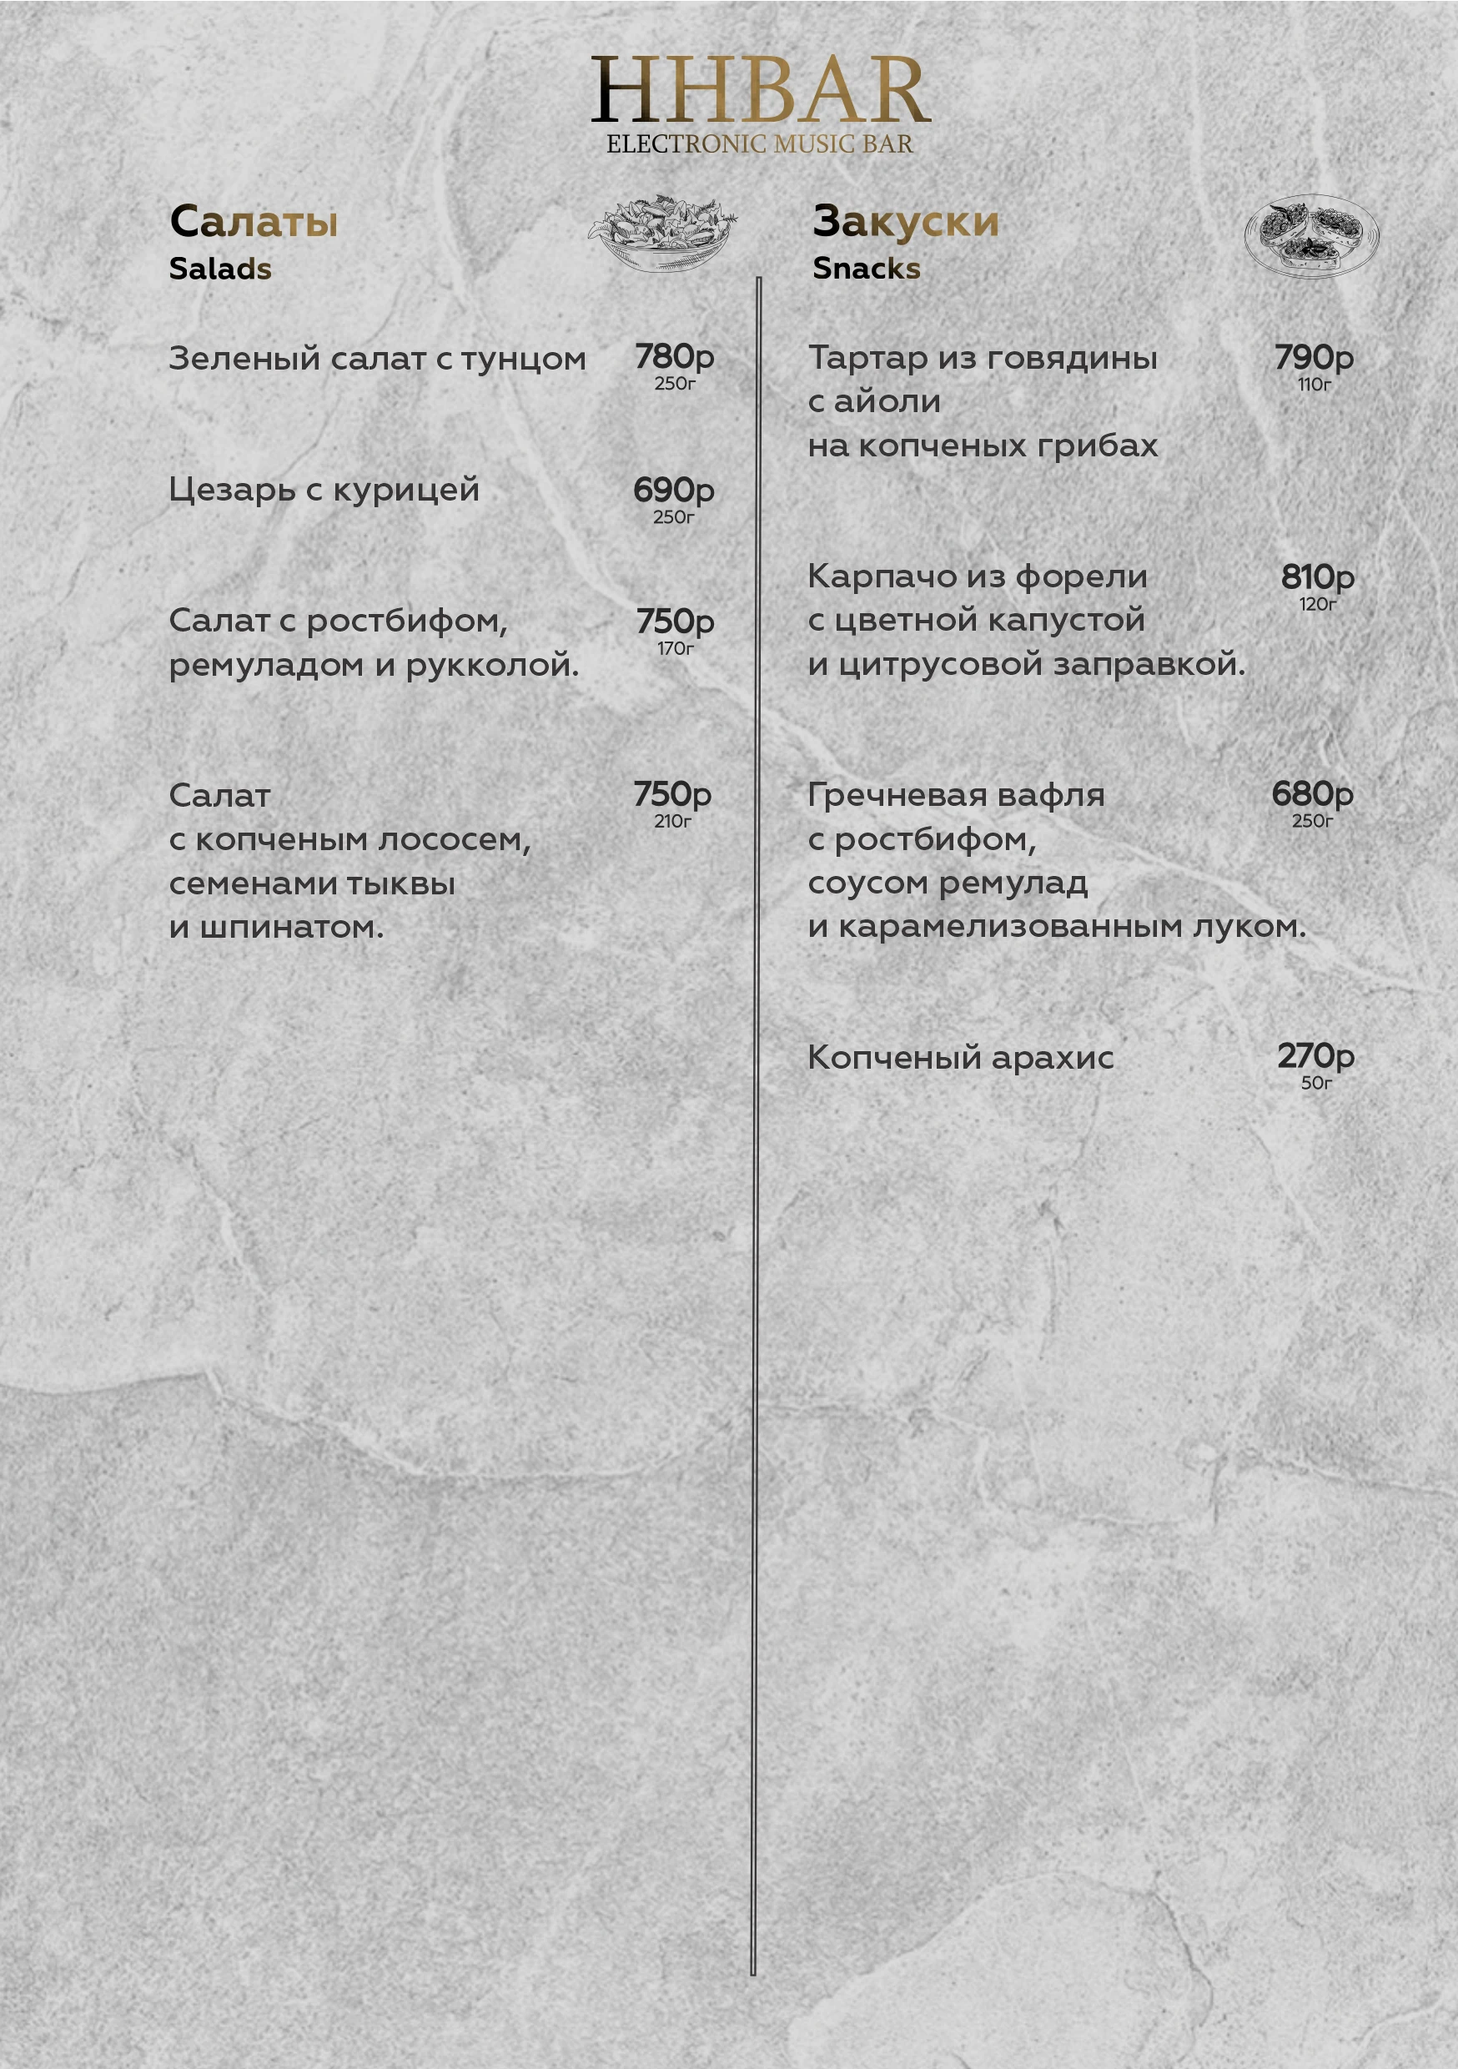
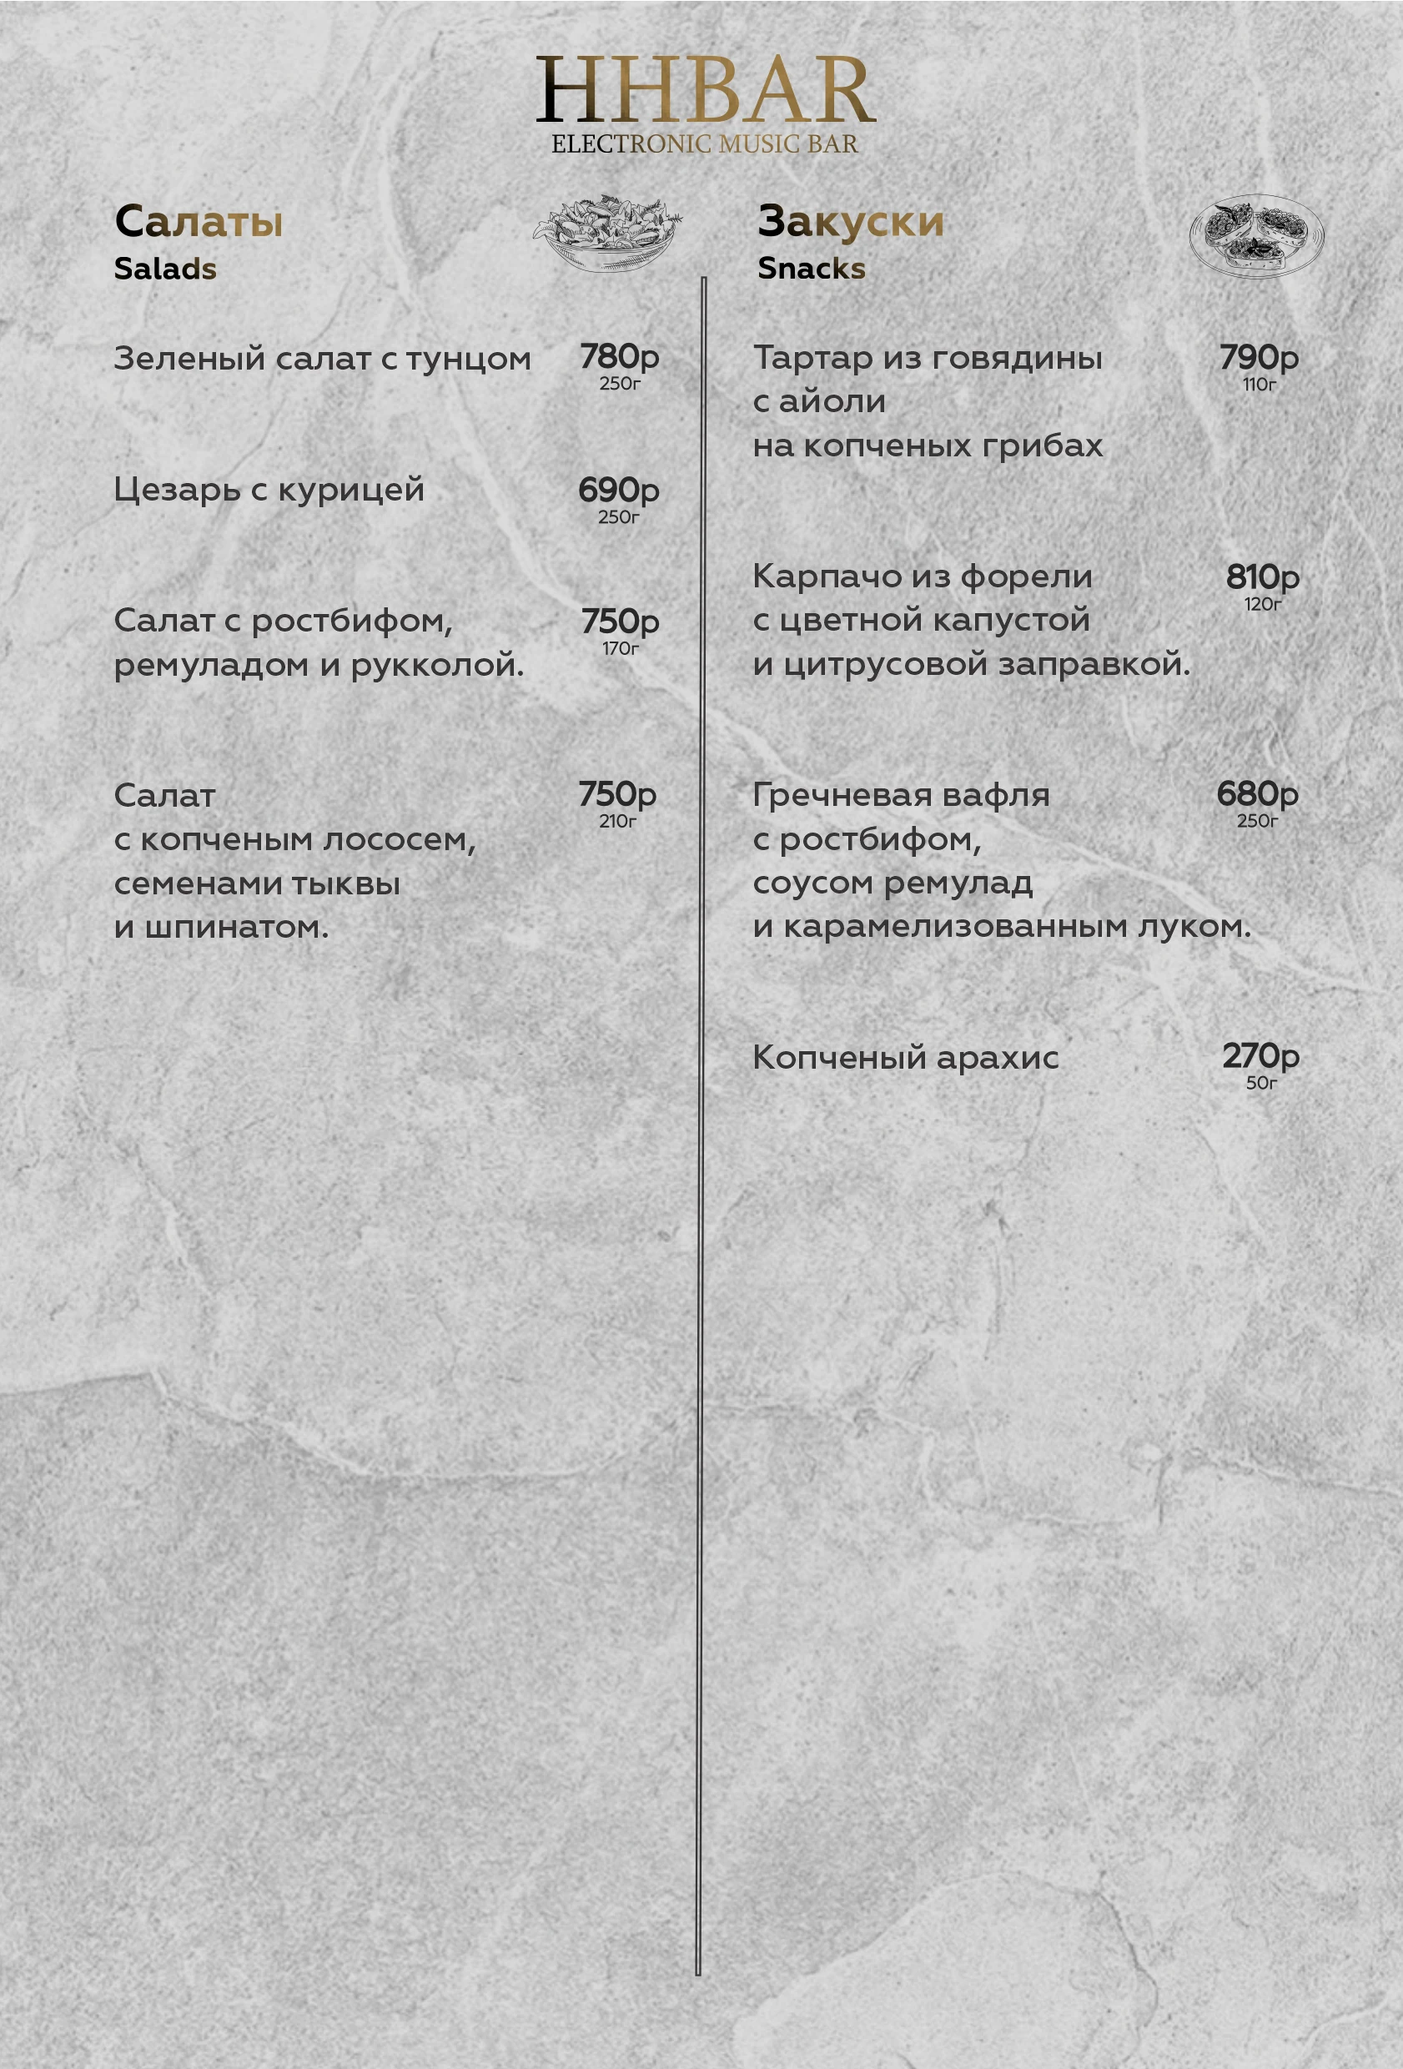
Align complete HHBAR menu and standardize video reports

diff --git a/menu.html b/menu.html
@@ -4,7 +4,7 @@
 <meta charset="UTF-8">
 <meta name="viewport" content="width=device-width, initial-scale=1.0, maximum-scale=5.0">
 <title>Меню — HHBAR Electronic Music Bar</title>
-<meta name="description" content="Меню HHBAR — кухня, лимонады, чай, кофе и другие напитки. Электронный бар в Мурманске.">
+<meta name="description" content="Меню HHBAR — кухня, напитки, барная карта и кальяны. Электронный бар в Мурманске.">
 <link rel="canonical" href="https://hhbar51.ru/menu.html">
 <meta name="theme-color" content="#0a0a0a">
 <meta name="yandex-metrika-id" content="">
@@ -197,7 +197,7 @@ footer { background: var(--darker); padding: 40px 0; text-align: center; color: 
 <link rel="stylesheet" href="src/styles/refresh.css">
 <style>@view-transition { navigation: none; }</style>
 <meta property="og:title" content="Меню HHBAR">
-<meta property="og:description" content="Кухня, лимонады, чай, кофе и другие напитки HHBAR в Мурманске.">
+<meta property="og:description" content="Кухня, напитки, барная карта и кальяны HHBAR в Мурманске.">
 <meta property="og:url" content="https://hhbar51.ru/menu.html">
 </head>
 <body>
@@ -221,7 +221,7 @@ footer { background: var(--darker); padding: 40px 0; text-align: center; color: 
 <section class="menu-hero">
     <div class="container">
         <h1>Меню HHBAR</h1>
-        <p>Кухня и напитки</p>
+        <p>Кухня и барная карта</p>
     </div>
 </section>
 
@@ -229,22 +229,24 @@ footer { background: var(--darker); padding: 40px 0; text-align: center; color: 
     <nav class="menu-jump" aria-label="Разделы меню">
         <a href="#kitchen">Кухня</a>
         <a href="#drinks">Напитки</a>
+        <a href="#bar">Барная карта</a>
+        <a href="#hookah">Кальяны</a>
     </nav>
     <section id="kitchen" aria-labelledby="kitchen-title">
         <h2 id="kitchen-title">Кухня</h2>
         <div class="menu-sheets">
-            <a class="menu-sheet" href="img/menu/page-14.webp">
-                <img src="img/menu/page-14-preview.webp" width="780" height="1107" alt="" decoding="async">
+            <a class="menu-sheet" href="img/menu/page-14.webp?v=2">
+                <img src="img/menu/page-14-preview.webp?v=2" width="780" height="1150" alt="" decoding="async">
                 <strong>Салаты и закуски</strong>
                 <span>Открыть в полном размере</span>
             </a>
-            <a class="menu-sheet" href="img/menu/page-15.webp">
-                <img src="img/menu/page-15-preview.webp" width="780" height="1107" alt="" decoding="async" loading="lazy">
+            <a class="menu-sheet" href="img/menu/page-15.webp?v=2">
+                <img src="img/menu/page-15-preview.webp?v=2" width="780" height="1227" alt="" decoding="async" loading="lazy">
                 <strong>Гриль, горячее и супы</strong>
                 <span>Открыть в полном размере</span>
             </a>
-            <a class="menu-sheet" href="img/menu/page-16.webp">
-                <img src="img/menu/page-16-preview.webp" width="780" height="1107" alt="" decoding="async" loading="lazy">
+            <a class="menu-sheet" href="img/menu/page-16.webp?v=2">
+                <img src="img/menu/page-16-preview.webp?v=2" width="780" height="1150" alt="" decoding="async" loading="lazy">
                 <strong>Пицца, гарниры, фритюр и десерты</strong>
                 <span>Открыть в полном размере</span>
             </a>
@@ -253,24 +255,86 @@ footer { background: var(--darker); padding: 40px 0; text-align: center; color: 
     <section id="drinks" aria-labelledby="drinks-title">
         <h2 id="drinks-title">Напитки</h2>
         <div class="menu-sheets">
-            <a class="menu-sheet" href="img/menu/page-9.webp">
-                <img src="img/menu/page-9-preview.webp" width="780" height="1107" alt="" decoding="async" loading="lazy">
+            <a class="menu-sheet" href="img/menu/page-9.webp?v=2">
+                <img src="img/menu/page-9-preview.webp?v=2" width="780" height="1191" alt="" decoding="async" loading="lazy">
                 <strong>Чёрный и зелёный чай</strong>
                 <span>Открыть в полном размере</span>
             </a>
-            <a class="menu-sheet" href="img/menu/page-10.webp">
-                <img src="img/menu/page-10-preview.webp" width="780" height="1107" alt="" decoding="async" loading="lazy">
+            <a class="menu-sheet" href="img/menu/page-10.webp?v=2">
+                <img src="img/menu/page-10-preview.webp?v=2" width="780" height="1187" alt="" decoding="async" loading="lazy">
                 <strong>Фруктовый чай, чайные сборы и глинтвейны</strong>
                 <span>Открыть в полном размере</span>
             </a>
-            <a class="menu-sheet" href="img/menu/page-11.webp">
-                <img src="img/menu/page-11-preview.webp" width="780" height="1107" alt="" decoding="async" loading="lazy">
+            <a class="menu-sheet" href="img/menu/page-11.webp?v=2">
+                <img src="img/menu/page-11-preview.webp?v=2" width="780" height="1224" alt="" decoding="async" loading="lazy">
                 <strong>Кофе, соки и безалкогольные напитки</strong>
                 <span>Открыть в полном размере</span>
             </a>
-            <a class="menu-sheet" href="img/menu/page-13.webp">
-                <img src="img/menu/page-13-preview.webp" width="780" height="1107" alt="" decoding="async" loading="lazy">
+            <a class="menu-sheet" href="img/menu/page-13.webp?v=2">
+                <img src="img/menu/page-13-preview.webp?v=2" width="780" height="1234" alt="" decoding="async" loading="lazy">
                 <strong>Лимонады</strong>
+                <span>Открыть в полном размере</span>
+            </a>
+        </div>
+    </section>
+
+    <section id="bar" aria-labelledby="bar-title">
+        <h2 id="bar-title">Барная карта</h2>
+        <div class="menu-sheets">
+            <a class="menu-sheet" href="img/menu/page-12.webp?v=2">
+                <img src="img/menu/page-12-preview.webp?v=2" width="780" height="1187" alt="" decoding="async" loading="lazy">
+                <strong>Авторские и классические коктейли</strong>
+                <span>Открыть в полном размере</span>
+            </a>
+            <a class="menu-sheet" href="img/menu/page-1.webp?v=2">
+                <img src="img/menu/page-1-preview.webp?v=2" width="780" height="1185" alt="" decoding="async" loading="lazy">
+                <strong>Вермуты, аперитивы и портвейн</strong>
+                <span>Открыть в полном размере</span>
+            </a>
+            <a class="menu-sheet" href="img/menu/page-2.webp?v=2">
+                <img src="img/menu/page-2-preview.webp?v=2" width="780" height="1194" alt="" decoding="async" loading="lazy">
+                <strong>Джин, текила и мескаль</strong>
+                <span>Открыть в полном размере</span>
+            </a>
+            <a class="menu-sheet" href="img/menu/page-3.webp?v=2">
+                <img src="img/menu/page-3-preview.webp?v=2" width="780" height="1191" alt="" decoding="async" loading="lazy">
+                <strong>Виски Шотландии и Ирландии</strong>
+                <span>Открыть в полном размере</span>
+            </a>
+            <a class="menu-sheet" href="img/menu/page-4.webp?v=2">
+                <img src="img/menu/page-4-preview.webp?v=2" width="780" height="1185" alt="" decoding="async" loading="lazy">
+                <strong>Виски Америки и Японии</strong>
+                <span>Открыть в полном размере</span>
+            </a>
+            <a class="menu-sheet" href="img/menu/page-5.webp?v=2">
+                <img src="img/menu/page-5-preview.webp?v=2" width="780" height="1185" alt="" decoding="async" loading="lazy">
+                <strong>Ром, коньяк и бренди</strong>
+                <span>Открыть в полном размере</span>
+            </a>
+            <a class="menu-sheet" href="img/menu/page-6.webp?v=2">
+                <img src="img/menu/page-6-preview.webp?v=2" width="780" height="1194" alt="" decoding="async" loading="lazy">
+                <strong>Ликёры и дижестивы</strong>
+                <span>Открыть в полном размере</span>
+            </a>
+            <a class="menu-sheet" href="img/menu/page-7.webp?v=2">
+                <img src="img/menu/page-7-preview.webp?v=2" width="780" height="1191" alt="" decoding="async" loading="lazy">
+                <strong>Игристые вина</strong>
+                <span>Открыть в полном размере</span>
+            </a>
+            <a class="menu-sheet" href="img/menu/page-8.webp?v=2">
+                <img src="img/menu/page-8-preview.webp?v=2" width="780" height="1187" alt="" decoding="async" loading="lazy">
+                <strong>Красные и белые вина</strong>
+                <span>Открыть в полном размере</span>
+            </a>
+        </div>
+    </section>
+
+    <section id="hookah" aria-labelledby="hookah-title">
+        <h2 id="hookah-title">Кальяны</h2>
+        <div class="menu-sheets">
+            <a class="menu-sheet" href="img/menu/page-17.webp">
+                <img src="img/menu/page-17-preview.webp" width="780" height="1107" alt="" decoding="async" loading="lazy">
+                <strong>Кальяны</strong>
                 <span>Открыть в полном размере</span>
             </a>
         </div>

diff --git a/index.html b/index.html
@@ -53,7 +53,7 @@
             <ul class="nav-links" id="navLinks">
                 <li><a href="#home" class="active">Главная</a></li>
                 <li><a href="#events">Афиша</a></li>
-                <li><a href="menu.html">Меню</a></li>
+                <li><a href="menu.html?v=20261120-2">Меню</a></li>
                 <li><a href="#features">О нас</a></li>
                 <li><a href="#gallery">Галерея</a></li>
                 <li><a href="#videos">Видео</a></li>
@@ -86,7 +86,7 @@
         <p class="hero-address">Кольский проспект, 44</p>
         <div class="hero-buttons">
             <a href="booking.html" class="btn">Забронировать столик</a>
-            <a href="menu.html" class="btn btn-secondary magnetic-btn">Меню</a>
+            <a href="menu.html?v=20261120-2" class="btn btn-secondary magnetic-btn">Меню</a>
             <a href="#events" class="btn btn-secondary">Афиша</a>
         </div>
     </div>
@@ -196,17 +196,21 @@
         <div class="videos-grid">
             <div class="video-card reveal">
                 <div class="video-container">
-                    <iframe title="Свежий видеоотчёт HHBAR в VK Видео" loading="lazy" referrerpolicy="strict-origin-when-cross-origin" src="https://vk.ru/video_ext.php?oid=-30291448&amp;id=456239521" allow="autoplay; encrypted-media; fullscreen; picture-in-picture" allowfullscreen></iframe>
+                    <iframe title="Пунш · Хэллоуин · 31.10.2026" loading="lazy" referrerpolicy="strict-origin-when-cross-origin" src="https://vk.com/video_ext.php?oid=-30291448&amp;id=456239521&amp;hd=2" allow="autoplay; encrypted-media; fullscreen; picture-in-picture" allowfullscreen></iframe>
                 </div>
-                <div class="video-title"><a href="https://vkvideo.ru/video-30291448_456239521">Смотреть в VK Видео</a></div>
+                <div class="video-title">Пунш · Хэллоуин · 31.10.2026</div>
             </div>
             <div class="video-card reveal">
-                <div id="vk_post_30291448_3597"></div>
-                <div class="video-title"><a href="https://vk.ru/wall-30291448_3597">Открыть видеоотчёт ВКонтакте</a></div>
+                <div class="video-container">
+                    <iframe title="COORD 2009 · 19.09.2026" loading="lazy" referrerpolicy="strict-origin-when-cross-origin" src="https://vk.com/video_ext.php?oid=-30291448&amp;id=456239515&amp;hd=2" allow="autoplay; encrypted-media; fullscreen; picture-in-picture" allowfullscreen></iframe>
+                </div>
+                <div class="video-title">COORD 2009 · 19.09.2026</div>
             </div>
             <div class="video-card reveal">
-                <div id="vk_post_30291448_3581"></div>
-                <div class="video-title"><a href="https://vk.ru/wall-30291448_3581">Открыть видеоотчёт ВКонтакте</a></div>
+                <div class="video-container">
+                    <iframe title="Вокабуляр · Сторона 8 · 2026" loading="lazy" referrerpolicy="strict-origin-when-cross-origin" src="https://vk.com/video_ext.php?oid=-30291448&amp;id=456239509&amp;hd=2" allow="autoplay; encrypted-media; fullscreen; picture-in-picture" allowfullscreen></iframe>
+                </div>
+                <div class="video-title">Вокабуляр · Сторона 8 · 2026</div>
             </div>
             <div class="video-card reveal">
                 <div class="video-container">
@@ -327,7 +331,7 @@
 <!-- MOBILE NAV -->
 <nav class="mobile-nav" aria-label="Быстрая навигация">
     <a href="#events"><i class="fas fa-calendar" aria-hidden="true"></i><span>Афиша</span></a>
-    <a href="menu.html"><i class="fas fa-utensils" aria-hidden="true"></i><span>Меню</span></a>
+    <a href="menu.html?v=20261120-2"><i class="fas fa-utensils" aria-hidden="true"></i><span>Меню</span></a>
     <a href="booking.html"><i class="fas fa-chair" aria-hidden="true"></i><span>Бронь</span></a>
     <a href="rent.html"><i class="fas fa-key" aria-hidden="true"></i><span>Аренда</span></a>
     <a href="#contact"><i class="fas fa-map-marker-alt" aria-hidden="true"></i><span>Как добраться</span></a>
@@ -349,6 +353,5 @@
 <script src="src/scripts/analytics.js" defer></script>
 <script src="src/scripts/index.js?v=20261120-1" defer></script>
 <script src="src/scripts/site.js?v=20261120-2" defer></script>
-<script src="src/scripts/vk-reports.js" defer></script>
 </body>
 </html>
